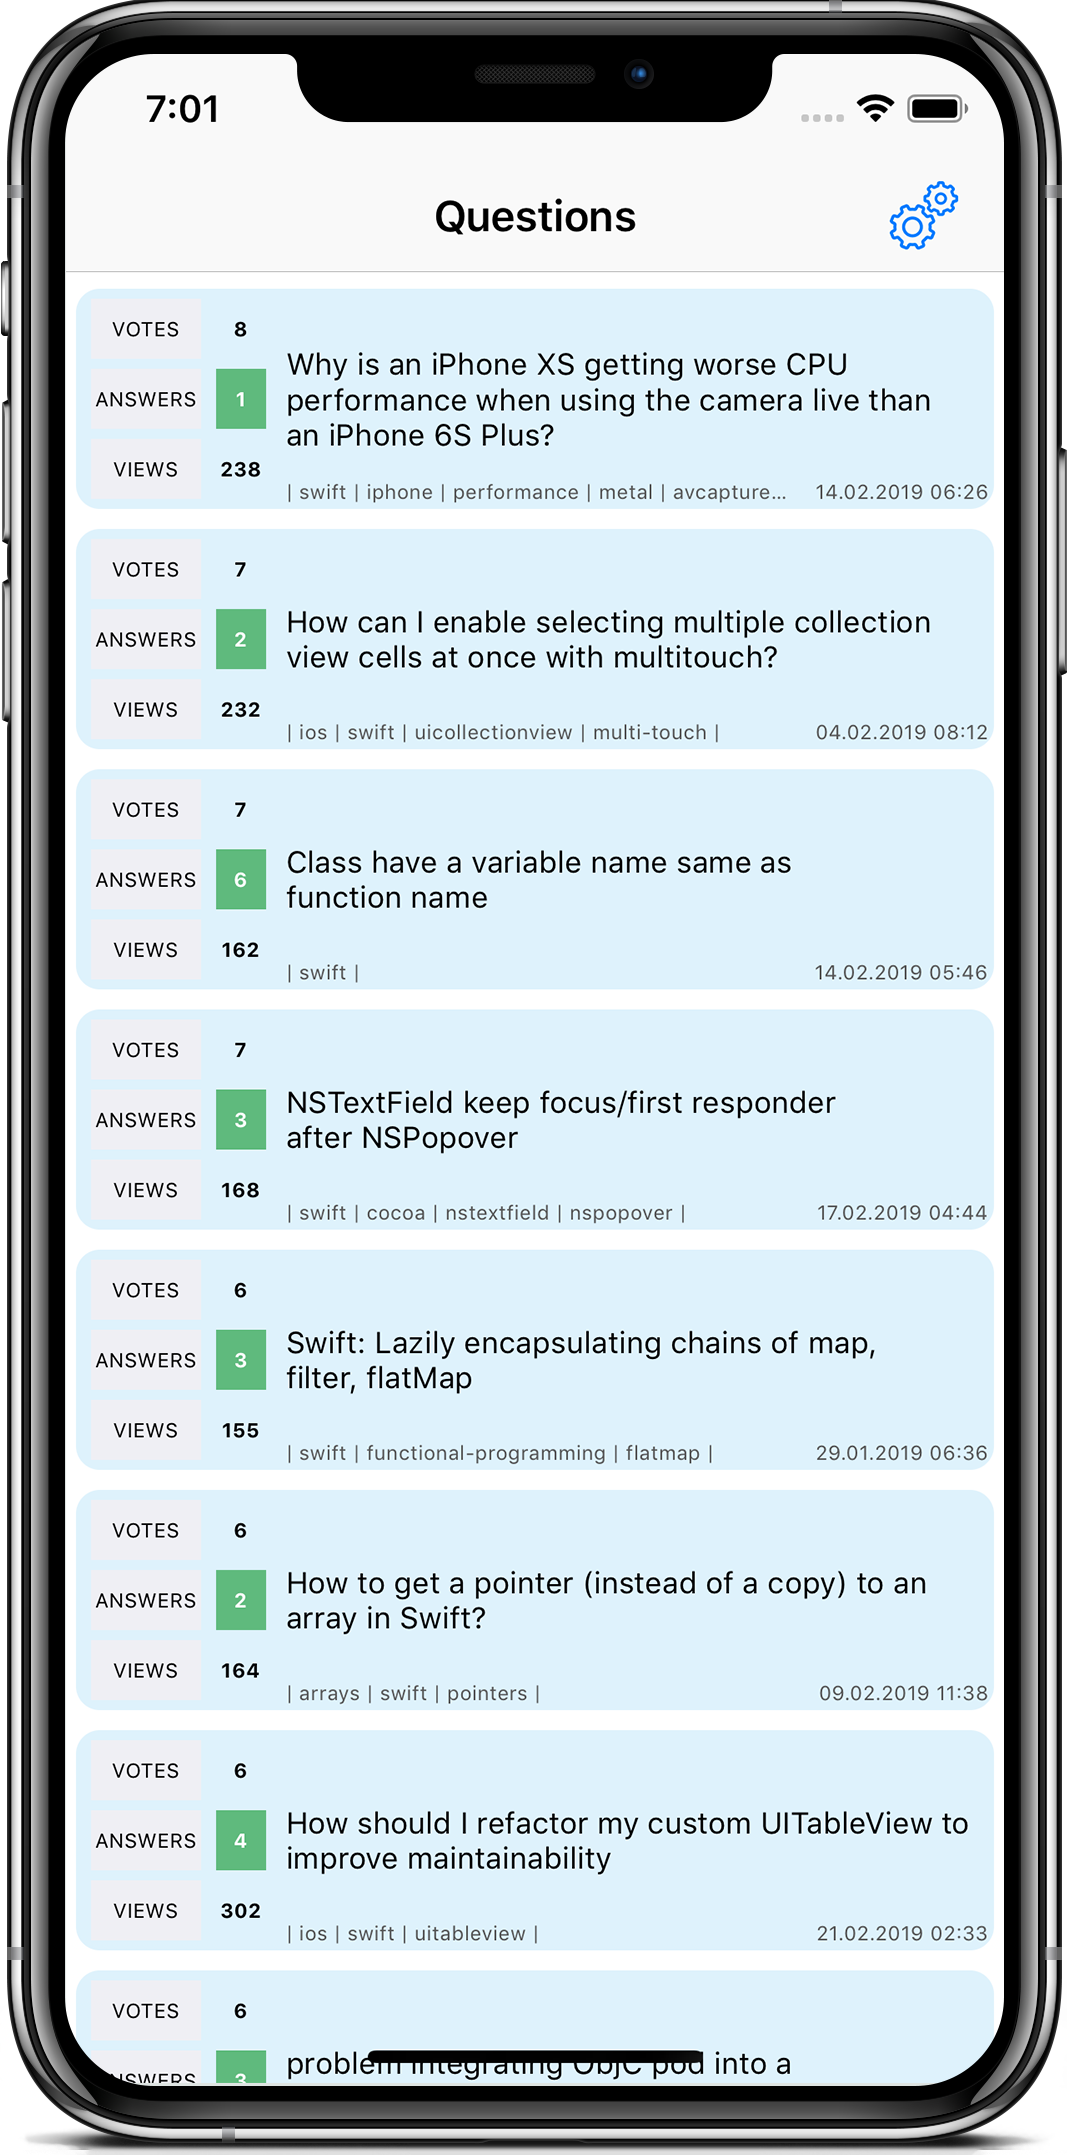
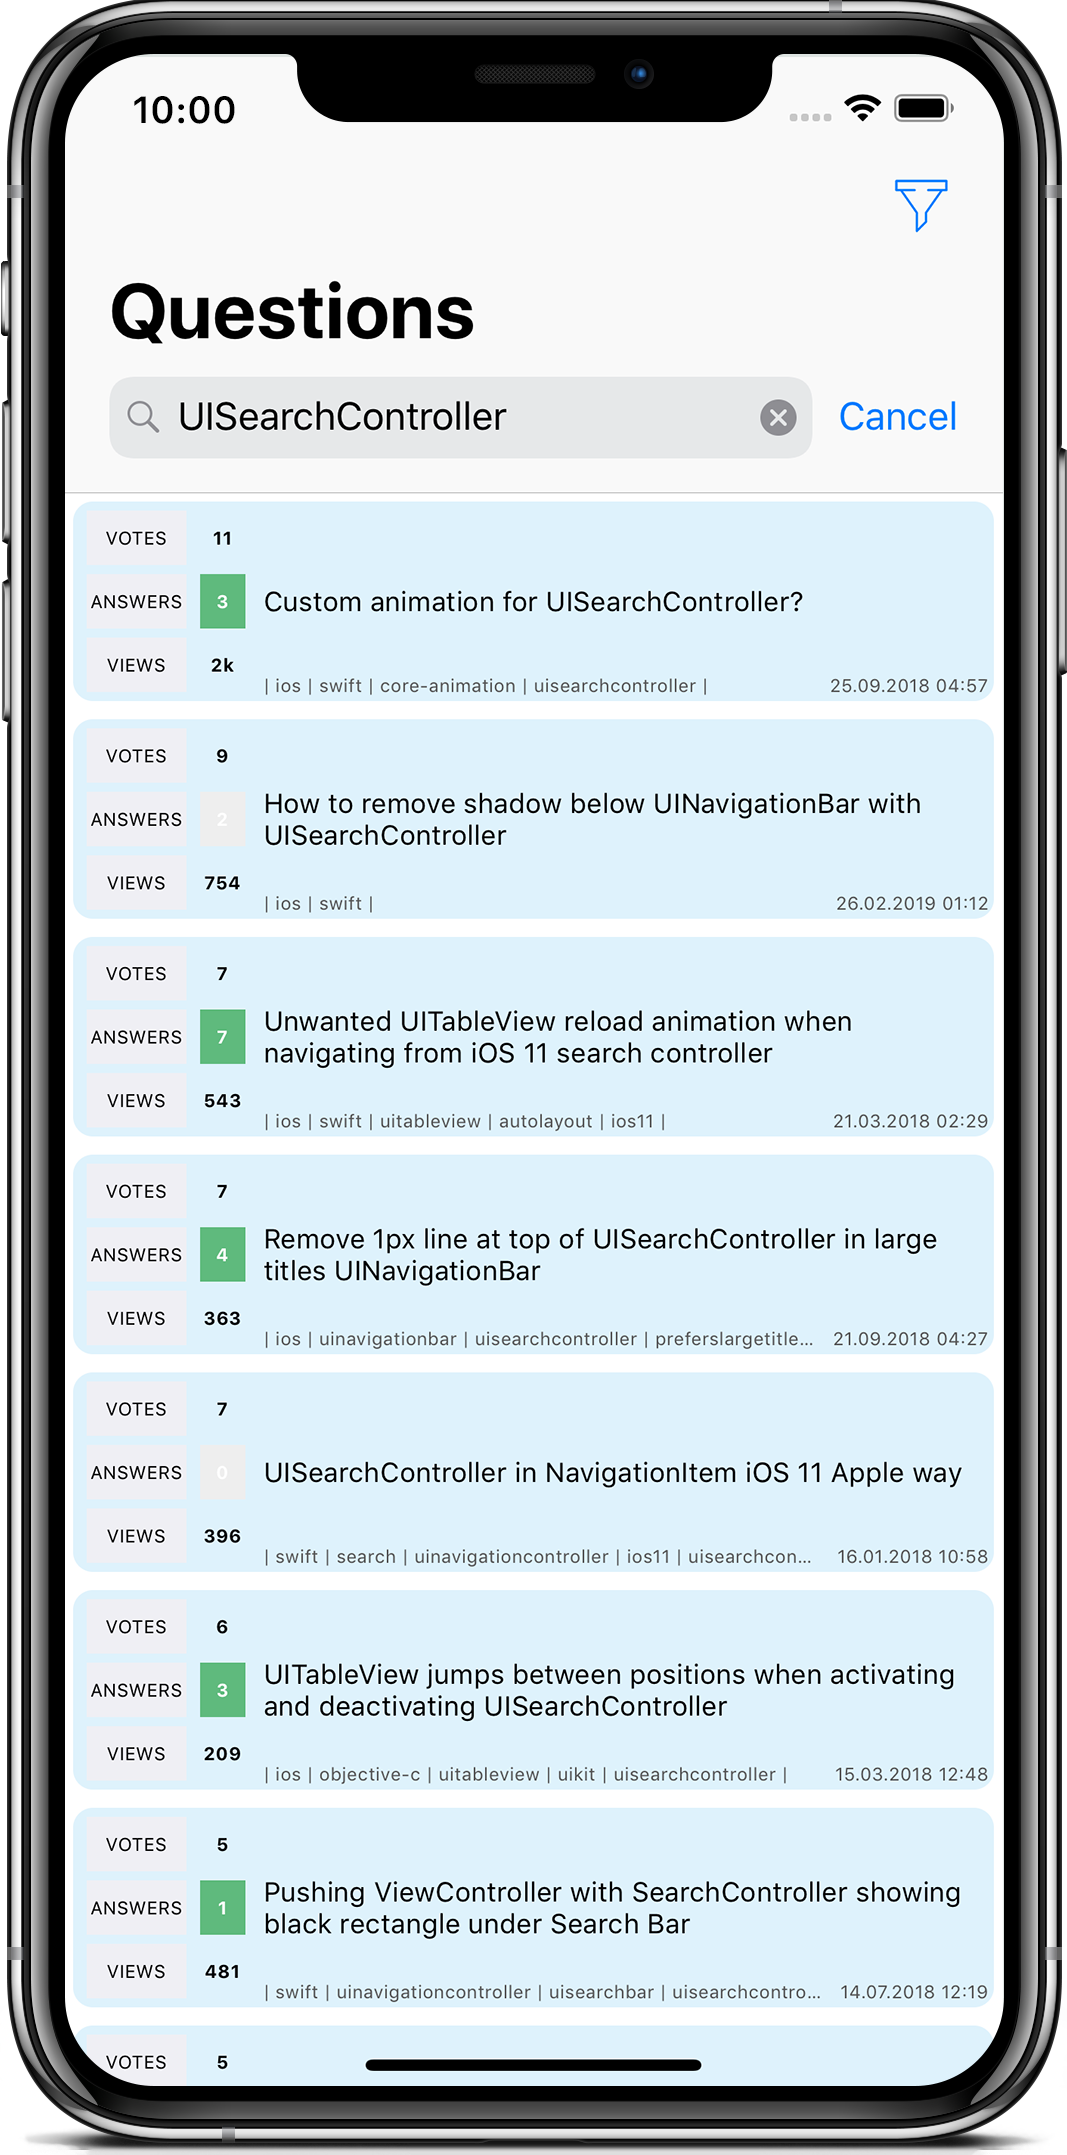
Search bar added

Changed region(s): [[0.0619, 0.0311, 0.9588, 0.9949], [0.1237, 0.0311, 0.2165, 0.0622]]

diff --git a/StackOverflowQuestions/ViewControllers/QuestionsListController.swift b/StackOverflowQuestions/ViewControllers/QuestionsListController.swift
@@ -24,6 +24,7 @@ class QuestionsListController: UIViewController {
     override func viewDidLoad() {
         super.viewDidLoad()
         setupNavigationBar()
+        setupSearchBar()
         setupNetworkBar()
         tableView.separatorStyle = UITableViewCell.SeparatorStyle.none
         tableView.delegate = self
@@ -40,14 +41,27 @@ class QuestionsListController: UIViewController {
             networkBar.show(color: .red, message: "Internet is not available")
         }
     }
-    
+
     
     func setupNavigationBar() {
-        let settingsBarButtonItem = UIBarButtonItem(image: UIImage(named: "Settings"),
+        let settingsBarButtonItem = UIBarButtonItem(image: UIImage(named: "Filter"),
                                                     style: .plain, target: self,
                                                     action: #selector(presentSettingsPage))
         navigationItem.rightBarButtonItem = settingsBarButtonItem
         navigationItem.title = "Questions"
+        navigationItem.hidesSearchBarWhenScrolling = false
+        navigationController?.navigationBar.prefersLargeTitles = true
+    }
+    
+    
+    func setupSearchBar() {
+        let searchController = UISearchController(searchResultsController: nil)
+        searchController.searchBar.delegate = self
+        searchController.obscuresBackgroundDuringPresentation = false
+        searchController.searchBar.placeholder = "Search Stackoverflow"
+        searchController.hidesNavigationBarDuringPresentation = false
+        definesPresentationContext = true
+        navigationItem.searchController = searchController
     }
     
     
@@ -133,7 +147,9 @@ extension QuestionsListController: UITableViewDelegate {
             return
         }
         let safariVC = SFSafariViewController(url: url)
-        present(safariVC, animated: true)
+        safariVC.navigationItem.largeTitleDisplayMode = .never
+        safariVC.hidesBottomBarWhenPushed = true
+        navigationController?.pushViewController(safariVC, animated: true)
     }
 }
 
@@ -142,5 +158,25 @@ extension QuestionsListController: SettingsTableDelegate {
     func settingsChanged(request: StackoverflowRequest) {
         soRequest = request
         loadData(url: request.url)
+    }
+}
+
+
+extension QuestionsListController: UISearchBarDelegate {
+    func searchBarSearchButtonClicked(_ searchBar: UISearchBar) {
+        guard let query = searchBar.text?.trimmingCharacters(in: .whitespacesAndNewlines) else {return}
+        print("query:", query)
+        soRequest.query = query
+        if query.count > 0 {
+            loadData(url: soRequest.url)
+            navigationController?.navigationBar.isHidden = false
+        }
+    }
+    
+    
+    func searchBarCancelButtonClicked(_ searchBar: UISearchBar) {
+        // If the Cancel button clicked, then reload questions list
+        soRequest.query = ""
+        loadData(url: soRequest.url)
     }
 }

diff --git a/StackOverflowQuestions/Networking/StackOverflowRequest.swift b/StackOverflowQuestions/Networking/StackOverflowRequest.swift
@@ -14,7 +14,8 @@ struct StackoverflowRequest: Equatable {
     
     let domain = "https://api.stackexchange.com"
     let version = "2.2"
-    let requestType = "questions?"
+    let questionsRequest = "questions?"
+    let searchRequest = "search/advanced?"
     var toDate = 0
     var fromDate = 0
     var pageSize = 100
@@ -23,8 +24,10 @@ struct StackoverflowRequest: Equatable {
 //    var sortMinValue = 10
     var tag = "" //TODO: implement an array of tags
     var site = "stackoverflow"
+    var query = ""
     
     var url: URL? {
+        let requestType = query == "" ? questionsRequest : searchRequest
         var urlString = domain + "/" + version + "/" + requestType
         urlString += "pagesize=" + String(pageSize)
         urlString += "&fromdate=" + String(fromDate)
@@ -33,9 +36,10 @@ struct StackoverflowRequest: Equatable {
         urlString += "&order=" + sortOrder
 //        urlString += "&min=" + String(sortMinValue)
         urlString += "&tagged=" + tag
+        urlString += "&q=" + query
         urlString += "&site=" + site
         print("Stackoverflow urlString:", urlString)
-        return URL(string: urlString)
+        return URL(string: urlString.addingPercentEncoding(withAllowedCharacters: NSCharacterSet.urlQueryAllowed) ?? "")
     }
     
     init() {
